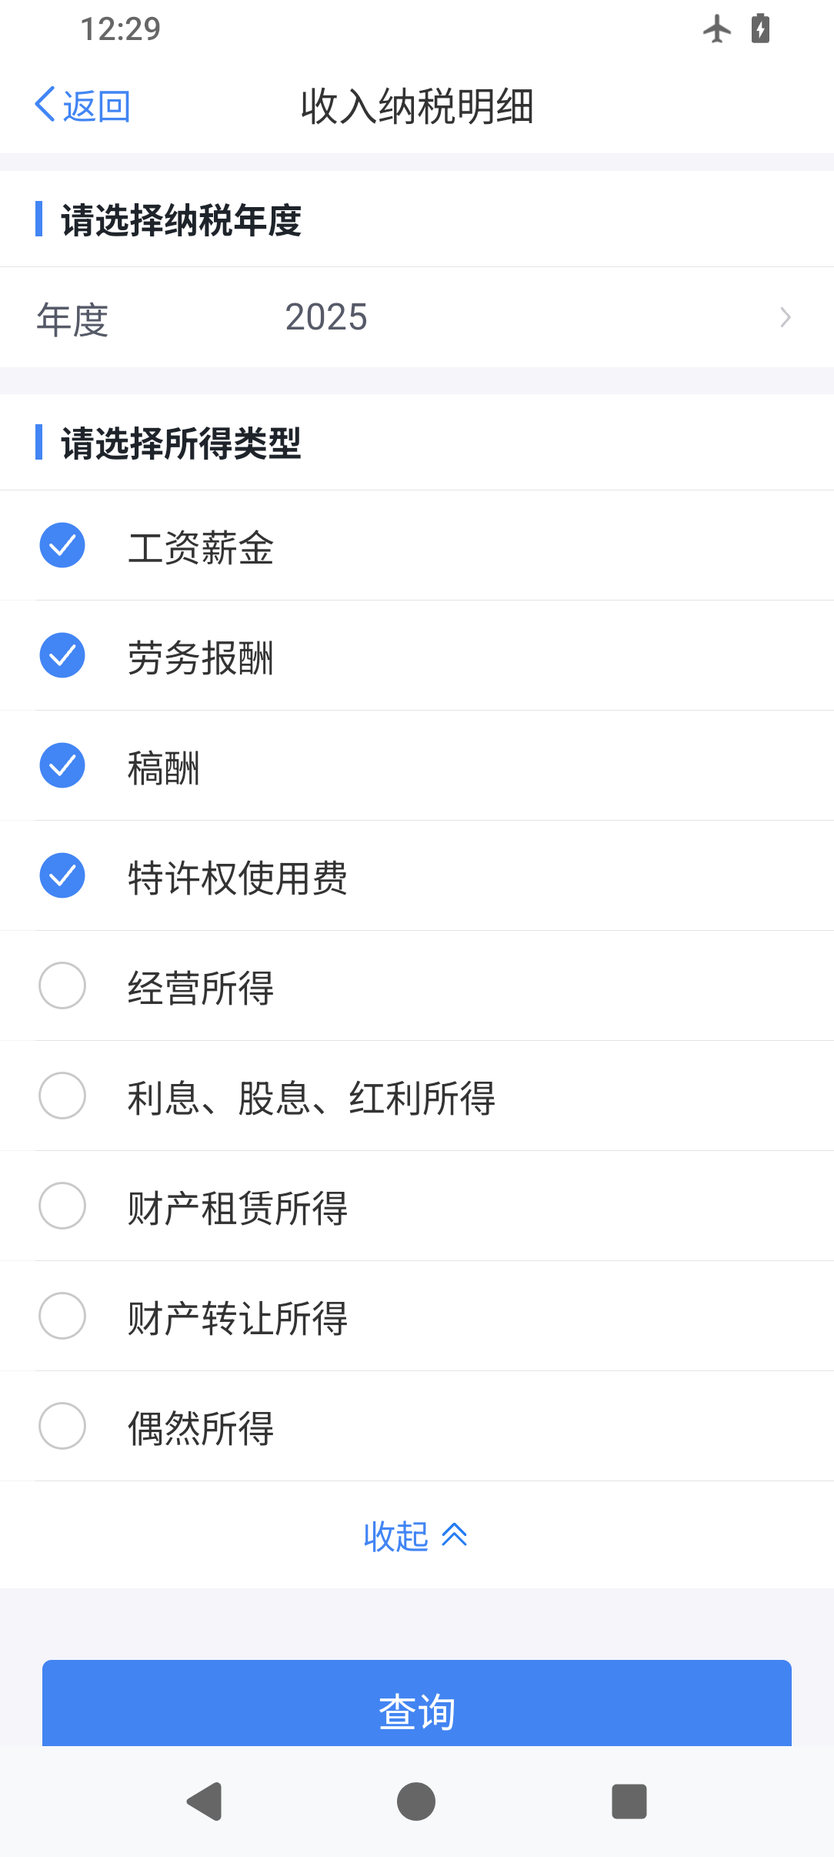
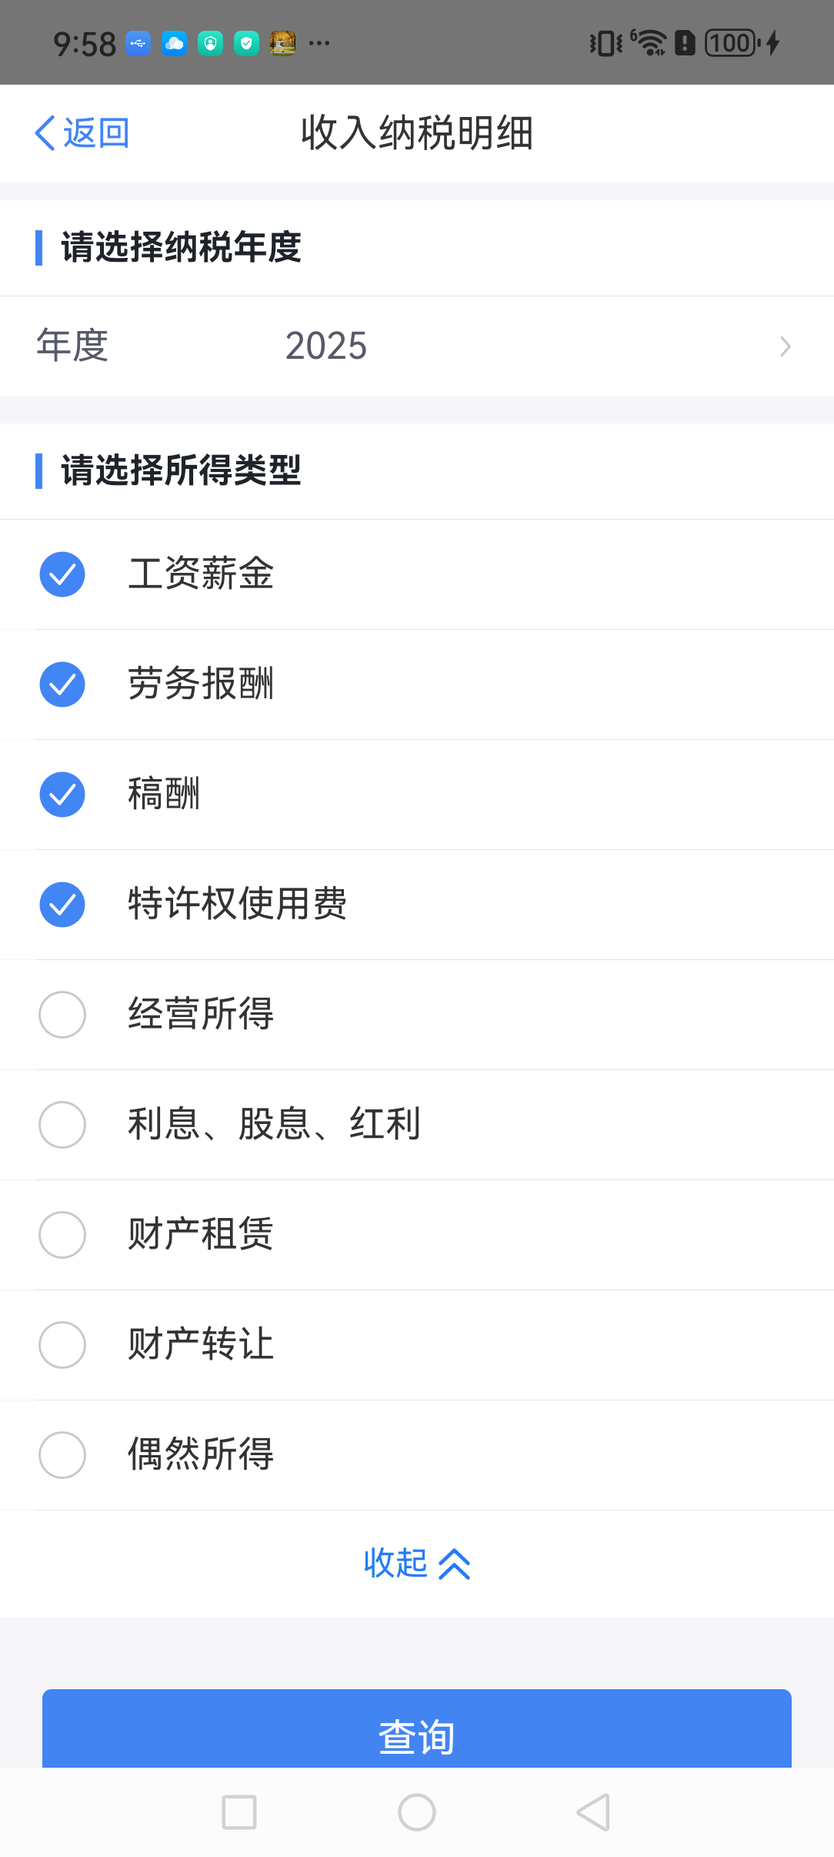
更新官网收入纳税明细筛选截图

diff --git a/docs/product-tax.html b/docs/product-tax.html
@@ -9,7 +9,7 @@
   <link rel="icon" type="image/svg+xml" href="assets/promo/logo.svg">
   <link rel="stylesheet" href="assets/promo/site.css">
   <link rel="stylesheet" href="assets/promo/detail.css">
-  <script defer src="assets/promo/config.js?v=20261118-android-screenshots"></script>
+  <script defer src="assets/promo/config.js?v=bdfc8d061cb8"></script>
   <link rel="stylesheet" href="assets/promo/custom.css?v=20261113-site-revision">
   <script defer src="assets/promo/common.js"></script>
   <script defer src="assets/promo/detail.js"></script>
@@ -48,7 +48,7 @@
       <div class="detail-tabs"><div class="container"><a href="#articleSection">产品介绍</a><a href="#visualSection">功能与界面</a><a href="#usageSection">使用说明</a></div></div>
       <div class="container detail-main">
         <div class="detail-column">
-          <section id="articleSection" class="detail-article-section"><p class="detail-section-label">产品介绍 / OVERVIEW</p><article id="detailArticle" class="rich-article"><h2>个税界面与操作流程演示</h2><p>使用虚构资料演示个税 App 的首页、年度查询、收入纳税明细与个人中心。当前提供安卓版本，应用需激活码使用。</p><p>目前仅支持安卓，暂不支持 iOS；iOS 版本近日即将更新。</p><h3>首页与功能入口</h3><figure><img loading="lazy" src="images/demo-home.png" alt="个税模拟器首页，来自维护者 GitHub 的高清截图"><figcaption>首页功能入口 · 虚构资料示例</figcaption></figure><h3>年度与所得类型查询</h3><p>选择年度与所得类型，浏览已保存的演示记录。</p><figure><img loading="lazy" src="images/demo-query.png" alt="年度与所得类型查询高清截图"><figcaption>年度查询 · GitHub 原图</figcaption></figure><h3>收入汇总与月度记录</h3><p>查看演示收入合计、已申报税额与各月份记录。</p><figure><img loading="lazy" src="images/demo-income.png" alt="收入纳税明细高清截图，均为虚构演示数据"><figcaption>收入纳税明细 · 虚构演示数据</figcaption></figure><h3>个人中心与资料入口</h3><figure><img loading="lazy" src="images/demo-mine.png" alt="个人中心与资料设置入口高清截图"><figcaption>个人中心 · GitHub 原图</figcaption></figure><h2>安卓功能展示</h2><h3>资料自定义</h3><figure><img loading="lazy" src="images/android-annual-income.png" alt="个税模拟器安卓资料自定义原图"><figcaption>资料自定义</figcaption></figure><h3>我的页面</h3><figure><img loading="lazy" src="images/android-profile.png" alt="个税模拟器安卓我的页面原图"><figcaption>我的页面</figcaption></figure><h3>纳税明细</h3><figure><img loading="lazy" src="images/android-income-list.png" alt="个税模拟器安卓纳税明细原图"><figcaption>纳税明细</figcaption></figure><h3>资料设置总览</h3><figure><img loading="lazy" src="images/android-data-settings.png" alt="个税模拟器安卓资料设置总览原图"><figcaption>资料设置总览</figcaption></figure><h3>纳税明细详情</h3><figure><img loading="lazy" src="images/android-income-detail.png" alt="个税模拟器安卓纳税明细详情原图"><figcaption>纳税明细详情</figcaption></figure><h3>激活与使用</h3><p>价格 179 元。本应用需激活码激活后使用，不支持试用。请联系 QQ 2430239942 获取激活码及安装说明。担心上当受骗，可先查看购买客户案例，再决定是否购买。</p></article></section>
+          <section id="articleSection" class="detail-article-section"><p class="detail-section-label">产品介绍 / OVERVIEW</p><article id="detailArticle" class="rich-article"><h2>个税界面与操作流程演示</h2><p>使用虚构资料演示个税 App 的首页、年度查询、收入纳税明细与个人中心。当前提供安卓版本，应用需激活码使用。</p><p>目前仅支持安卓，暂不支持 iOS；iOS 版本近日即将更新。</p><h3>首页与功能入口</h3><figure><img loading="lazy" src="images/demo-home.png" alt="个税模拟器首页，来自维护者 GitHub 的高清截图"><figcaption>首页功能入口 · 虚构资料示例</figcaption></figure><h3>年度与所得类型查询</h3><p>选择年度与所得类型，浏览已保存的演示记录。</p><figure><img loading="lazy" src="images/demo-query.png?v=bdfc8d061cb8" alt="年度与所得类型查询高清截图"><figcaption>年度查询 · GitHub 原图</figcaption></figure><h3>收入汇总与月度记录</h3><p>查看演示收入合计、已申报税额与各月份记录。</p><figure><img loading="lazy" src="images/demo-income.png" alt="收入纳税明细高清截图，均为虚构演示数据"><figcaption>收入纳税明细 · 虚构演示数据</figcaption></figure><h3>个人中心与资料入口</h3><figure><img loading="lazy" src="images/demo-mine.png" alt="个人中心与资料设置入口高清截图"><figcaption>个人中心 · GitHub 原图</figcaption></figure><h2>安卓功能展示</h2><h3>资料自定义</h3><figure><img loading="lazy" src="images/android-annual-income.png" alt="个税模拟器安卓资料自定义原图"><figcaption>资料自定义</figcaption></figure><h3>我的页面</h3><figure><img loading="lazy" src="images/android-profile.png" alt="个税模拟器安卓我的页面原图"><figcaption>我的页面</figcaption></figure><h3>纳税明细</h3><figure><img loading="lazy" src="images/android-income-list.png" alt="个税模拟器安卓纳税明细原图"><figcaption>纳税明细</figcaption></figure><h3>资料设置总览</h3><figure><img loading="lazy" src="images/android-data-settings.png" alt="个税模拟器安卓资料设置总览原图"><figcaption>资料设置总览</figcaption></figure><h3>纳税明细详情</h3><figure><img loading="lazy" src="images/android-income-detail.png" alt="个税模拟器安卓纳税明细详情原图"><figcaption>纳税明细详情</figcaption></figure><h3>激活与使用</h3><p>价格 179 元。本应用需激活码激活后使用，不支持试用。请联系 QQ 2430239942 获取激活码及安装说明。担心上当受骗，可先查看购买客户案例，再决定是否购买。</p></article></section>
           <section id="visualSection" class="detail-feature-section"><div class="detail-feature-copy"><p class="detail-section-label">功能与界面 / PREVIEW</p><h2>界面展示</h2><p id="featureDescription"></p></div><div id="featureVisual" class="detail-feature-visual"></div></section>
           <section id="usageSection" class="detail-usage-section"><p class="detail-section-label">快速开始 / GET STARTED</p><h2>三步开始体验</h2><div class="detail-steps"><div><b>01</b><strong>选择产品版本</strong><p>按设备选择个税版本，或直接打开网页工具。</p></div><div><b>02</b><strong>扫码付款</strong><p>使用支付宝扫码，支持信用卡、花呗付款。</p></div><div><b>03</b><strong>联系 QQ</strong><p>联系 QQ 2430239942，获取对应产品的使用说明。</p></div></div></section>
         </div>

diff --git a/docs/install_guide.html b/docs/install_guide.html
@@ -46,7 +46,7 @@
       <div class="installation-heading"><p class="eyebrow">02 / FOUR SIMPLE STEPS</p><h2 id="tutorialTitle">准备好资料，开始演示。</h2><p>以下是 GitHub 中的历史演示截图，用于了解界面。当前购买版本仅支持安卓，暂不支持 iOS；示例均使用虚构资料。</p></div>
       <div class="usage-grid">
         <article class="usage-card"><div class="usage-copy"><span class="usage-number">01</span><h3>配置虚构姓名与单位</h3><p>从「我的」进入对应版本的资料设置入口，填写演示姓名与任职单位，先准备一个简单场景。</p><a class="text-link" href="guides/configure-demo-data.html">查看资料设置教程 <span aria-hidden="true">→</span></a></div><figure class="usage-image"><img src="images/demo-mine.png" width="1320" height="2868" alt="个税模拟器的个人中心，使用虚构示例资料" loading="lazy"><figcaption>个人中心 · 虚构示例</figcaption></figure></article>
-        <article class="usage-card"><div class="usage-copy"><span class="usage-number">02</span><h3>设置年度、月份与收入</h3><p>选择要演示的年度与月份，填写示例收入等内容。预览并确认年份、单位与金额后，保存资料。</p><a class="text-link" href="guides/configure-demo-data.html">了解年度与收入配置 <span aria-hidden="true">→</span></a></div><figure class="usage-image"><img src="images/demo-query.png" width="1320" height="2868" alt="个税模拟器的年度与所得类型筛选页面" loading="lazy"><figcaption>年度与所得类型筛选</figcaption></figure></article>
+        <article class="usage-card"><div class="usage-copy"><span class="usage-number">02</span><h3>设置年度、月份与收入</h3><p>选择要演示的年度与月份，填写示例收入等内容。预览并确认年份、单位与金额后，保存资料。</p><a class="text-link" href="guides/configure-demo-data.html">了解年度与收入配置 <span aria-hidden="true">→</span></a></div><figure class="usage-image"><img src="images/demo-query.png?v=bdfc8d061cb8" width="1084" height="2412" alt="个税模拟器的年度与所得类型筛选页面" loading="lazy"><figcaption>年度与所得类型筛选</figcaption></figure></article>
         <article class="usage-card"><div class="usage-copy"><span class="usage-number">03</span><h3>保存并核对收入明细</h3><p>从首页进入收入纳税明细，选择已保存数据的年度与对应所得类型，核对收入合计和月度记录。</p><a class="text-link" href="guides/income-details-demo.html">查看收入明细教程 <span aria-hidden="true">→</span></a></div><figure class="usage-image"><img src="images/demo-income.png" width="1320" height="2868" alt="个税模拟器收入合计与月度收入记录，金额为模拟数据" loading="lazy"><figcaption>收入纳税明细 · 模拟数据</figcaption></figure></article>
         <article class="usage-card usage-recording"><div class="usage-copy"><span class="usage-number">04</span><h3>截图，或录一段操作</h3><p>用手机系统截图保存单页画面，或开启屏幕录制，串联年度选择、查询与明细浏览。</p><a class="text-link" href="guides/screenshot-and-recording.html">查看截图与录屏教程 <span aria-hidden="true">→</span></a></div><div class="recording-visual" aria-hidden="true"><span class="recording-dot"></span><strong>01:00</strong><span>资料设置 → 年度查询 → 明细浏览</span></div></article>
       </div>

diff --git a/docs/service-image-editing.html b/docs/service-image-editing.html
@@ -9,7 +9,7 @@
   <link rel="icon" type="image/svg+xml" href="assets/promo/logo.svg">
   <link rel="stylesheet" href="assets/promo/site.css">
   <link rel="stylesheet" href="assets/promo/detail.css">
-  <script defer src="assets/promo/config.js?v=20261113-site-revision"></script>
+  <script defer src="assets/promo/config.js?v=bdfc8d061cb8"></script>
   <link rel="stylesheet" href="assets/promo/custom.css?v=20261113-site-revision">
   <script defer src="assets/promo/common.js"></script>
   <script defer src="assets/promo/detail.js"></script>
@@ -48,7 +48,7 @@
       <div class="detail-tabs"><div class="container"><a href="#articleSection">产品介绍</a><a href="#visualSection">功能与界面</a><a href="#usageSection">使用说明</a></div></div>
       <div class="container detail-main">
         <div class="detail-column">
-          <section id="articleSection" class="detail-article-section"><p class="detail-section-label">产品介绍 / OVERVIEW</p><article id="detailArticle" class="rich-article"><h2>图片处理内容</h2><p>材料图处理 · 收入明细 · 缴纳记录 · 资产证明 · 报表凭证。图片处理 49 元，支持演示图片的清晰度调整、裁剪排版、隐私打码和色彩调整。请先联系 QQ 2430239942，发送原图并说明用途和需要修改的地方。</p><figure><img loading="lazy" src="images/demo-query.png" alt="维护者 GitHub 高清演示素材"><figcaption>GitHub 演示素材参考 · 具体服务内容另行沟通</figcaption></figure><h3>沟通与交付</h3><p>发送原图、用途与修改点，确认后扫码付款。处理完成后按沟通结果交付图片。</p></article></section>
+          <section id="articleSection" class="detail-article-section"><p class="detail-section-label">产品介绍 / OVERVIEW</p><article id="detailArticle" class="rich-article"><h2>图片处理内容</h2><p>材料图处理 · 收入明细 · 缴纳记录 · 资产证明 · 报表凭证。图片处理 49 元，支持演示图片的清晰度调整、裁剪排版、隐私打码和色彩调整。请先联系 QQ 2430239942，发送原图并说明用途和需要修改的地方。</p><figure><img loading="lazy" src="images/demo-query.png?v=bdfc8d061cb8" alt="维护者 GitHub 高清演示素材"><figcaption>GitHub 演示素材参考 · 具体服务内容另行沟通</figcaption></figure><h3>沟通与交付</h3><p>发送原图、用途与修改点，确认后扫码付款。处理完成后按沟通结果交付图片。</p></article></section>
           <section id="visualSection" class="detail-feature-section"><div class="detail-feature-copy"><p class="detail-section-label">功能与界面 / PREVIEW</p><h2>界面展示</h2><p id="featureDescription"></p></div><div id="featureVisual" class="detail-feature-visual"></div></section>
           <section id="usageSection" class="detail-usage-section"><p class="detail-section-label">快速开始 / GET STARTED</p><h2>三步开始体验</h2><div class="detail-steps"><div><b>01</b><strong>选择产品版本</strong><p>按设备选择个税版本，或直接打开网页工具。</p></div><div><b>02</b><strong>扫码付款</strong><p>使用支付宝扫码，支持信用卡、花呗付款。</p></div><div><b>03</b><strong>联系 QQ</strong><p>联系 QQ 2430239942，获取对应产品的使用说明。</p></div></div></section>
         </div>

diff --git a/docs/guides/how-to-use.html b/docs/guides/how-to-use.html
@@ -153,7 +153,7 @@
 <h2 id="section-2">保存是资料与查询的连接点</h2><p>表单输入和预览不代表已应用。保存后再进入查询页，选择同一年度和所得类型；修改后应退出旧结果页重新查询。</p>
 <h2 id="section-3">发布素材前检查说明</h2><p>核对示例姓名、单位、月份、金额，以及画面中“非官方模拟演示”的标识。原始录屏和对外版本分别保存，便于发现问题后重新导出。</p>
 <h2 id="field-reference">字段与常见误解</h2><div class="table-scroll field-table" role="region" aria-labelledby="field-table-caption" tabindex="0"><table><caption id="field-table-caption">模拟器四步使用检查项</caption><thead><tr><th scope="col">字段</th><th scope="col">含义</th><th scope="col">常见误解</th></tr></thead><tbody><tr><th scope="row">设备版本</th><td>先确认手机平台、机型与系统要求</td><td>其他设备的入口说明不一定适用本机</td></tr><tr><th scope="row">预览与保存</th><td>检查虚构资料后将示例应用到本机</td><td>表单填完或看到预览不代表已经保存</td></tr><tr><th scope="row">查询条件</th><td>与已保存资料对应的年度和所得类型</td><td>切换条件不会自动生成缺少的演示数据</td></tr><tr><th scope="row">截图与录屏</th><td>用系统功能记录已核对的教学画面</td><td>原始素材不能未经检查就作为对外版本</td></tr></tbody></table></div>
-<figure><img src="/images/demo-query.png" width="1320" height="2868" loading="lazy" decoding="async" alt="个税模拟器的本机虚构示例画面，非官方模拟演示"><figcaption>个税模拟器的本机虚构示例画面，非官方模拟演示</figcaption></figure>
+<figure><img src="/images/demo-query.png?v=bdfc8d061cb8" width="1084" height="2412" loading="lazy" decoding="async" alt="个税模拟器的本机虚构示例画面，非官方模拟演示"><figcaption>个税模拟器的本机虚构示例画面，非官方模拟演示</figcaption></figure>
 <h2 id="faq">常见问题</h2>
 <div class="faq-item"><h3>只打开预览就可以去查了吗？</h3><p>应先完成保存，再到对应年度查询。</p></div>
 <div class="faq-item"><h3>画面必须和网站截图金额相同吗？</h3><p>不需要。网站图片是一组示例，你的结果取决于本机保存的虚构资料。</p></div>

diff --git a/docs/assets/promo/config.js b/docs/assets/promo/config.js
@@ -102,7 +102,7 @@ window.MOU_PROMO_CONFIG = {
             {
               "type": "image",
               "attrs": {
-                "src": "images/demo-query.png?v=97bf367df303",
+                "src": "images/demo-query.png?v=bdfc8d061cb8",
                 "alt": "年度与所得类型查询高清截图",
                 "caption": "年度查询 · GitHub 原图",
                 "width": 60,
@@ -504,7 +504,7 @@ window.MOU_PROMO_CONFIG = {
             {
               "type": "image",
               "attrs": {
-                "src": "images/demo-query.png?v=97bf367df303",
+                "src": "images/demo-query.png?v=bdfc8d061cb8",
                 "alt": "维护者 GitHub 高清演示素材",
                 "caption": "GitHub 演示素材参考 · 具体服务内容另行沟通",
                 "width": 60,
@@ -534,7 +534,7 @@ window.MOU_PROMO_CONFIG = {
             }
           ]
         },
-        "detail_image_url": "images/demo-query.png?v=97bf367df303",
+        "detail_image_url": "images/demo-query.png?v=bdfc8d061cb8",
         "seo_path": "service-image-editing.html",
         "seo_title": "灵活就业指导",
         "seo_h1": "图片处理",
@@ -583,7 +583,7 @@ window.MOU_PROMO_CONFIG = {
       "title": "收入纳税明细"
     },
     {
-      "image_url": "images/demo-query.png?v=97bf367df303",
+      "image_url": "images/demo-query.png?v=bdfc8d061cb8",
       "title": "年度查询"
     },
     {

diff --git a/docs/guides/income-details-demo.html b/docs/guides/income-details-demo.html
@@ -53,7 +53,7 @@
 <h2 id="section-3">第三步：选择所得类型</h2>
 <p>按演示内容选择所得类型。主要讲解工资记录时，选择“工资薪金”；其他类型根据本次准备的数据选择。</p>
 <p>查询页里勾选了某个类型，并不代表已经生成该类型的记录。列表能否显示内容，还取决于本机是否保存了相应的演示数据。</p>
-<p align="center"><img loading="lazy" decoding="async" height="2868" src="../images/demo-query.png" width="1320" alt="个税模拟器收入纳税明细查询页：选择纳税年度与所得类型，模拟演示画面"></p>
+<p align="center"><img loading="lazy" decoding="async" height="2412" src="../images/demo-query.png?v=bdfc8d061cb8" width="1084" alt="个税模拟器收入纳税明细查询页：选择纳税年度与所得类型，模拟演示画面"></p>
 <h2 id="section-4">第四步：查询并阅读汇总</h2>
 <p>点击“查询”进入收入纳税明细列表。先停留在顶部，查看收入合计与预扣税额合计，再逐条浏览月份。</p>
 <p align="center"><img loading="lazy" decoding="async" height="2868" src="../images/demo-income.png" width="1320" alt="个税模拟器收入纳税明细列表：收入合计、预扣税额合计与月度记录，数值为演示数据"></p>

diff --git a/docs/index.html b/docs/index.html
@@ -14,7 +14,7 @@
   <link rel="icon" type="image/svg+xml" href="assets/promo/logo.svg">
   <link rel="stylesheet" href="assets/promo/site.css?v=20260923-purchase">
   <link rel="stylesheet" href="assets/promo/custom.css?v=20261113-disclaimer-preview">
-  <script defer src="assets/promo/config.js?v=20261118-android-screenshots"></script>
+  <script defer src="assets/promo/config.js?v=bdfc8d061cb8"></script>
   <script defer src="assets/promo/common.js"></script>
   <script defer src="assets/promo/site.js?v=20261113-disclaimer-preview"></script>
   <link rel="canonical" href="https://geshui.moujc.cn/">

diff --git a/docs/promo-detail.html b/docs/promo-detail.html
@@ -9,7 +9,7 @@
   <link rel="icon" type="image/svg+xml" href="assets/promo/logo.svg">
   <link rel="stylesheet" href="assets/promo/site.css">
   <link rel="stylesheet" href="assets/promo/detail.css">
-  <script defer src="assets/promo/config.js?v=20261118-android-screenshots"></script>
+  <script defer src="assets/promo/config.js?v=bdfc8d061cb8"></script>
   <link rel="stylesheet" href="assets/promo/custom.css?v=20261113-site-revision">
   <script defer src="assets/promo/common.js"></script>
   <script defer src="assets/promo/detail.js"></script>

diff --git a/scripts/build_pages.py b/scripts/build_pages.py
@@ -168,8 +168,9 @@ def render(page, lookup):
     md += [table_md, '']
     if page.get('image'):
         image = '/images/' + page['image']
+        width, height = page.get('image_size', (1320, 2868))
         alt = '个税模拟器的本机虚构示例画面，非官方模拟演示'
-        parts.append(f'<figure><img src="{image}" width="1320" height="2868" loading="lazy" decoding="async" alt="{alt}"><figcaption>{alt}</figcaption></figure>')
+        parts.append(f'<figure><img src="{image}" width="{width}" height="{height}" loading="lazy" decoding="async" alt="{alt}"><figcaption>{alt}</figcaption></figure>')
         md += [f'![{alt}]({BASE + image})', '']
     parts.append('<h2 id="faq">常见问题</h2>')
     md += ['## 常见问题', '']

diff --git a/README.md b/README.md
@@ -28,7 +28,7 @@
   </tr>
   <tr>
     <td align="center"><img src="docs/images/demo-income.png?v=c2b1c65bb758" width="300" alt="个税模拟器：收入汇总与月度收入列表，数值为演示数据"></td>
-    <td align="center"><img src="docs/images/demo-query.png?v=97bf367df303" width="300" alt="个税模拟器：年度选择与所得类型筛选"></td>
+    <td align="center"><img src="docs/images/demo-query.png?v=bdfc8d061cb8" width="300" alt="个税模拟器：年度选择与所得类型筛选"></td>
     <td align="center"><img src="docs/images/android-income-detail.png?v=5ccd43504874" width="300" alt="安卓个税模拟器：虚构收入纳税明细详情"></td>
   </tr>
 </table>

diff --git a/GITEE.md b/GITEE.md
@@ -31,7 +31,7 @@
   <tr><th>收入纳税明细 · 虚构示例</th><th>年度查询 · 模拟演示</th></tr>
   <tr>
     <td><img src="docs/images/demo-income.png?v=c2b1c65bb758" width="280" alt="个税模拟器：虚构收入汇总和月度明细"></td>
-    <td><img src="docs/images/demo-query.png?v=97bf367df303" width="280" alt="个税模拟器：选择年度和所得类型"></td>
+    <td><img src="docs/images/demo-query.png?v=bdfc8d061cb8" width="280" alt="个税模拟器：选择年度和所得类型"></td>
   </tr>
   <tr><th>安卓首页 · 模拟演示</th><th>明细详情 · 虚构示例</th></tr>
   <tr>

diff --git a/docs/guides/income-details-demo.md b/docs/guides/income-details-demo.md
@@ -24,7 +24,7 @@
 
 查询页里勾选了某个类型，并不代表已经生成该类型的记录。列表能否显示内容，还取决于本机是否保存了相应的演示数据。
 
-<p align="center"><img src="../images/demo-query.png" width="320" alt="个税模拟器收入纳税明细查询页：选择纳税年度与所得类型，模拟演示画面"></p>
+<p align="center"><img src="../images/demo-query.png?v=bdfc8d061cb8" width="320" alt="个税模拟器收入纳税明细查询页：选择纳税年度与所得类型，模拟演示画面"></p>
 
 ## 第四步：查询并阅读汇总
 
